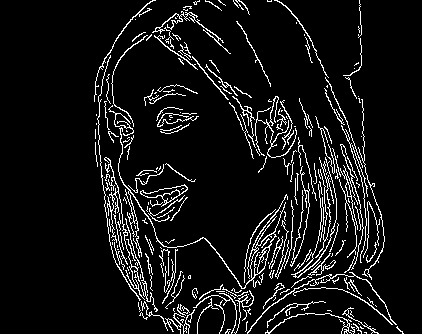
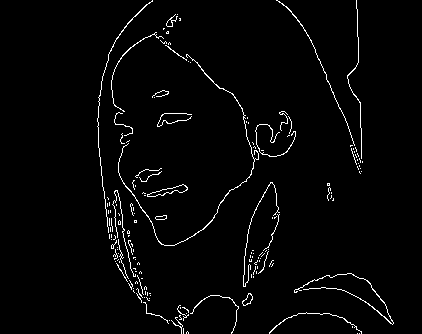
1.把readVideo改为BianYuanTQ,实现边缘提取 2.把readVideo1改为QianJingTQ,实现前景提取 3.readImg加入形态学处理跟边缘提取 4.前景提取中加入了滤波和形态学处理

diff --git a/opencv_dc/main.cpp b/opencv_dc/main.cpp
@@ -2,9 +2,10 @@
 #include <opencv2/core/core.hpp>  
 #include <opencv2/highgui/highgui.hpp>  
 extern int readImg();
-extern int readVideo();
-extern int readVideo1();
-int  main() {
-	readImg();
+extern int BianYuanTQ();
+extern int QianJingTQ();
+int main()
+{
+	QianJingTQ();
 	return 0;
 }
